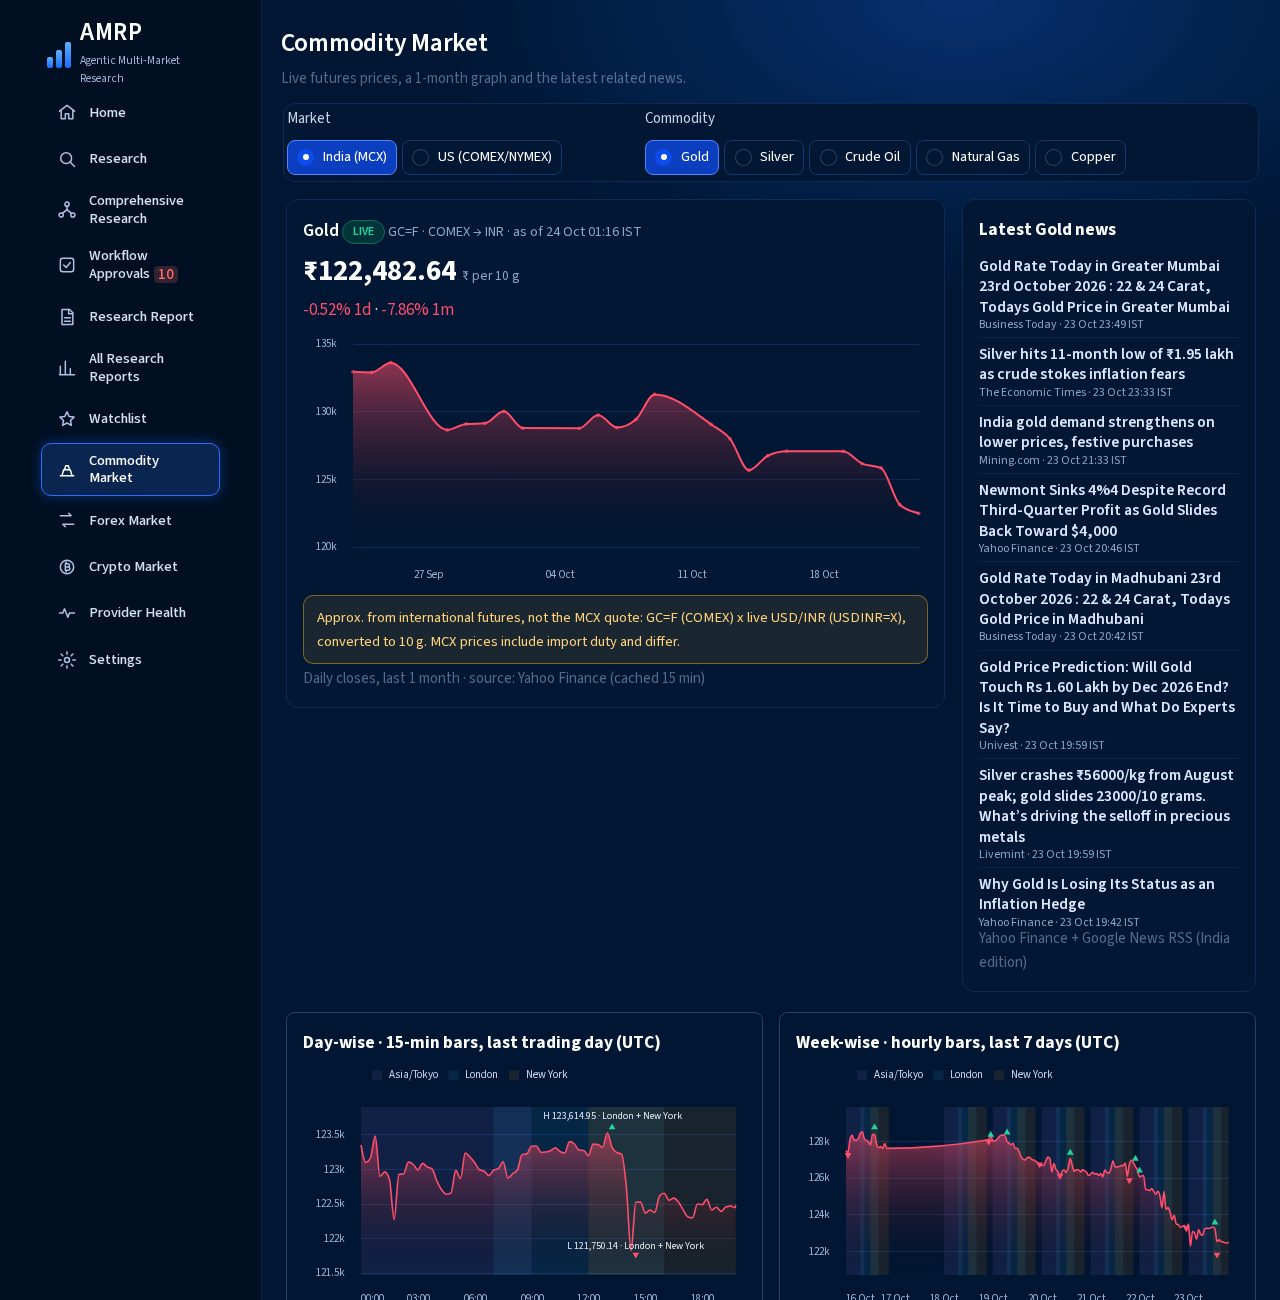
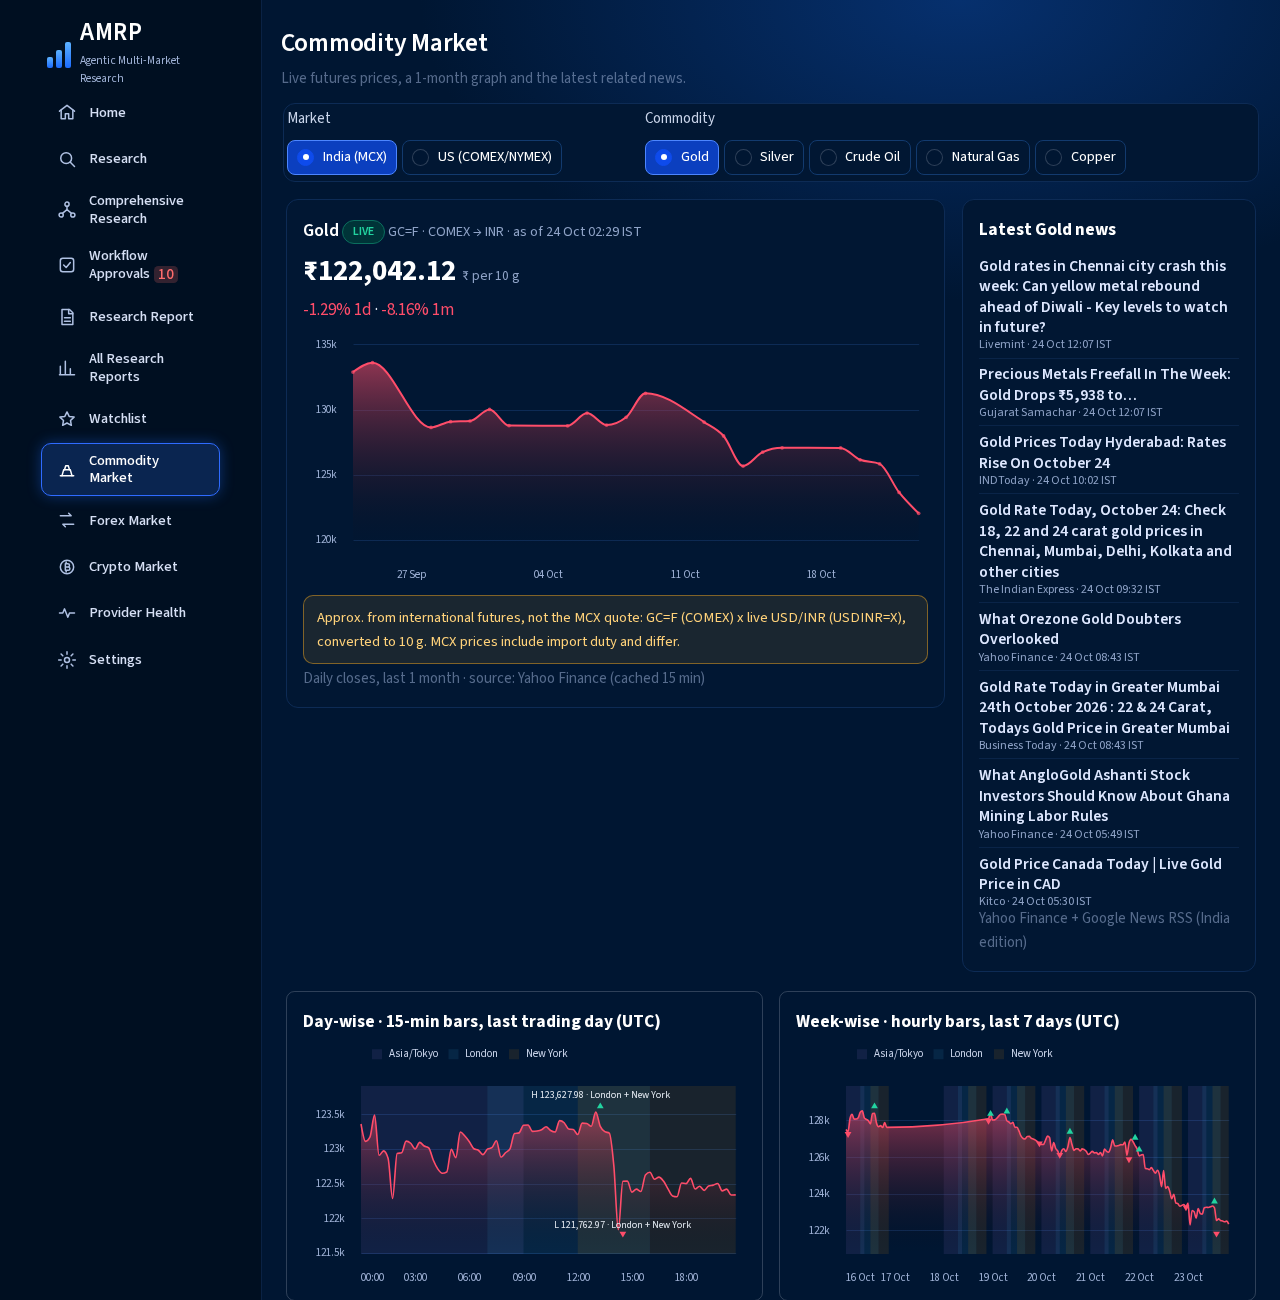
chore(repo): fresh screenshots, MIT copyright Attota Leelaissak, move phase history out of repo, drop unused placeholders

diff --git a/tests/unit/test_repository_hygiene.py b/tests/unit/test_repository_hygiene.py
@@ -26,11 +26,8 @@ def test_root_markdown_is_limited_to_control_documents() -> None:
     assert present == ALLOWED_ROOT_MARKDOWN
 
 
-def test_history_reports_live_under_docs_reports() -> None:
-    reports = ROOT / "docs" / "reports"
-    assert (reports / "PHASE_HISTORY.md").is_file()
-    assert (reports / "README.md").is_file()
-    # Detailed phase and defect reports are archived outside the repository.
+def test_history_reports_live_outside_repository_root() -> None:
+    # Phase history and detailed phase and defect reports are archived outside the repository.
     archived = [
         path.name for path in ROOT.glob("*.md") if path.name.startswith(("F0", "F1", "PHASE_"))
     ]

diff --git a/ARCHITECTURE.md b/ARCHITECTURE.md
@@ -234,7 +234,7 @@ English and Telugu are the initial presentation targets; Hindi and other languag
 
 ## Report boundary
 
-Future report generation consumes a versioned report model; it does not query providers directly. DOCX rendering, charts, citation formatting, and filename sanitization belong to reporting adapters. Report artifacts retain research-run linkage and generation metadata. The frozen section/classification contract is documented in [docs/reports/README.md](docs/reports/README.md).
+Future report generation consumes a versioned report model; it does not query providers directly. DOCX rendering, charts, citation formatting, and filename sanitization belong to reporting adapters. Report artifacts retain research-run linkage and generation metadata.
 
 ## Integration boundaries
 
